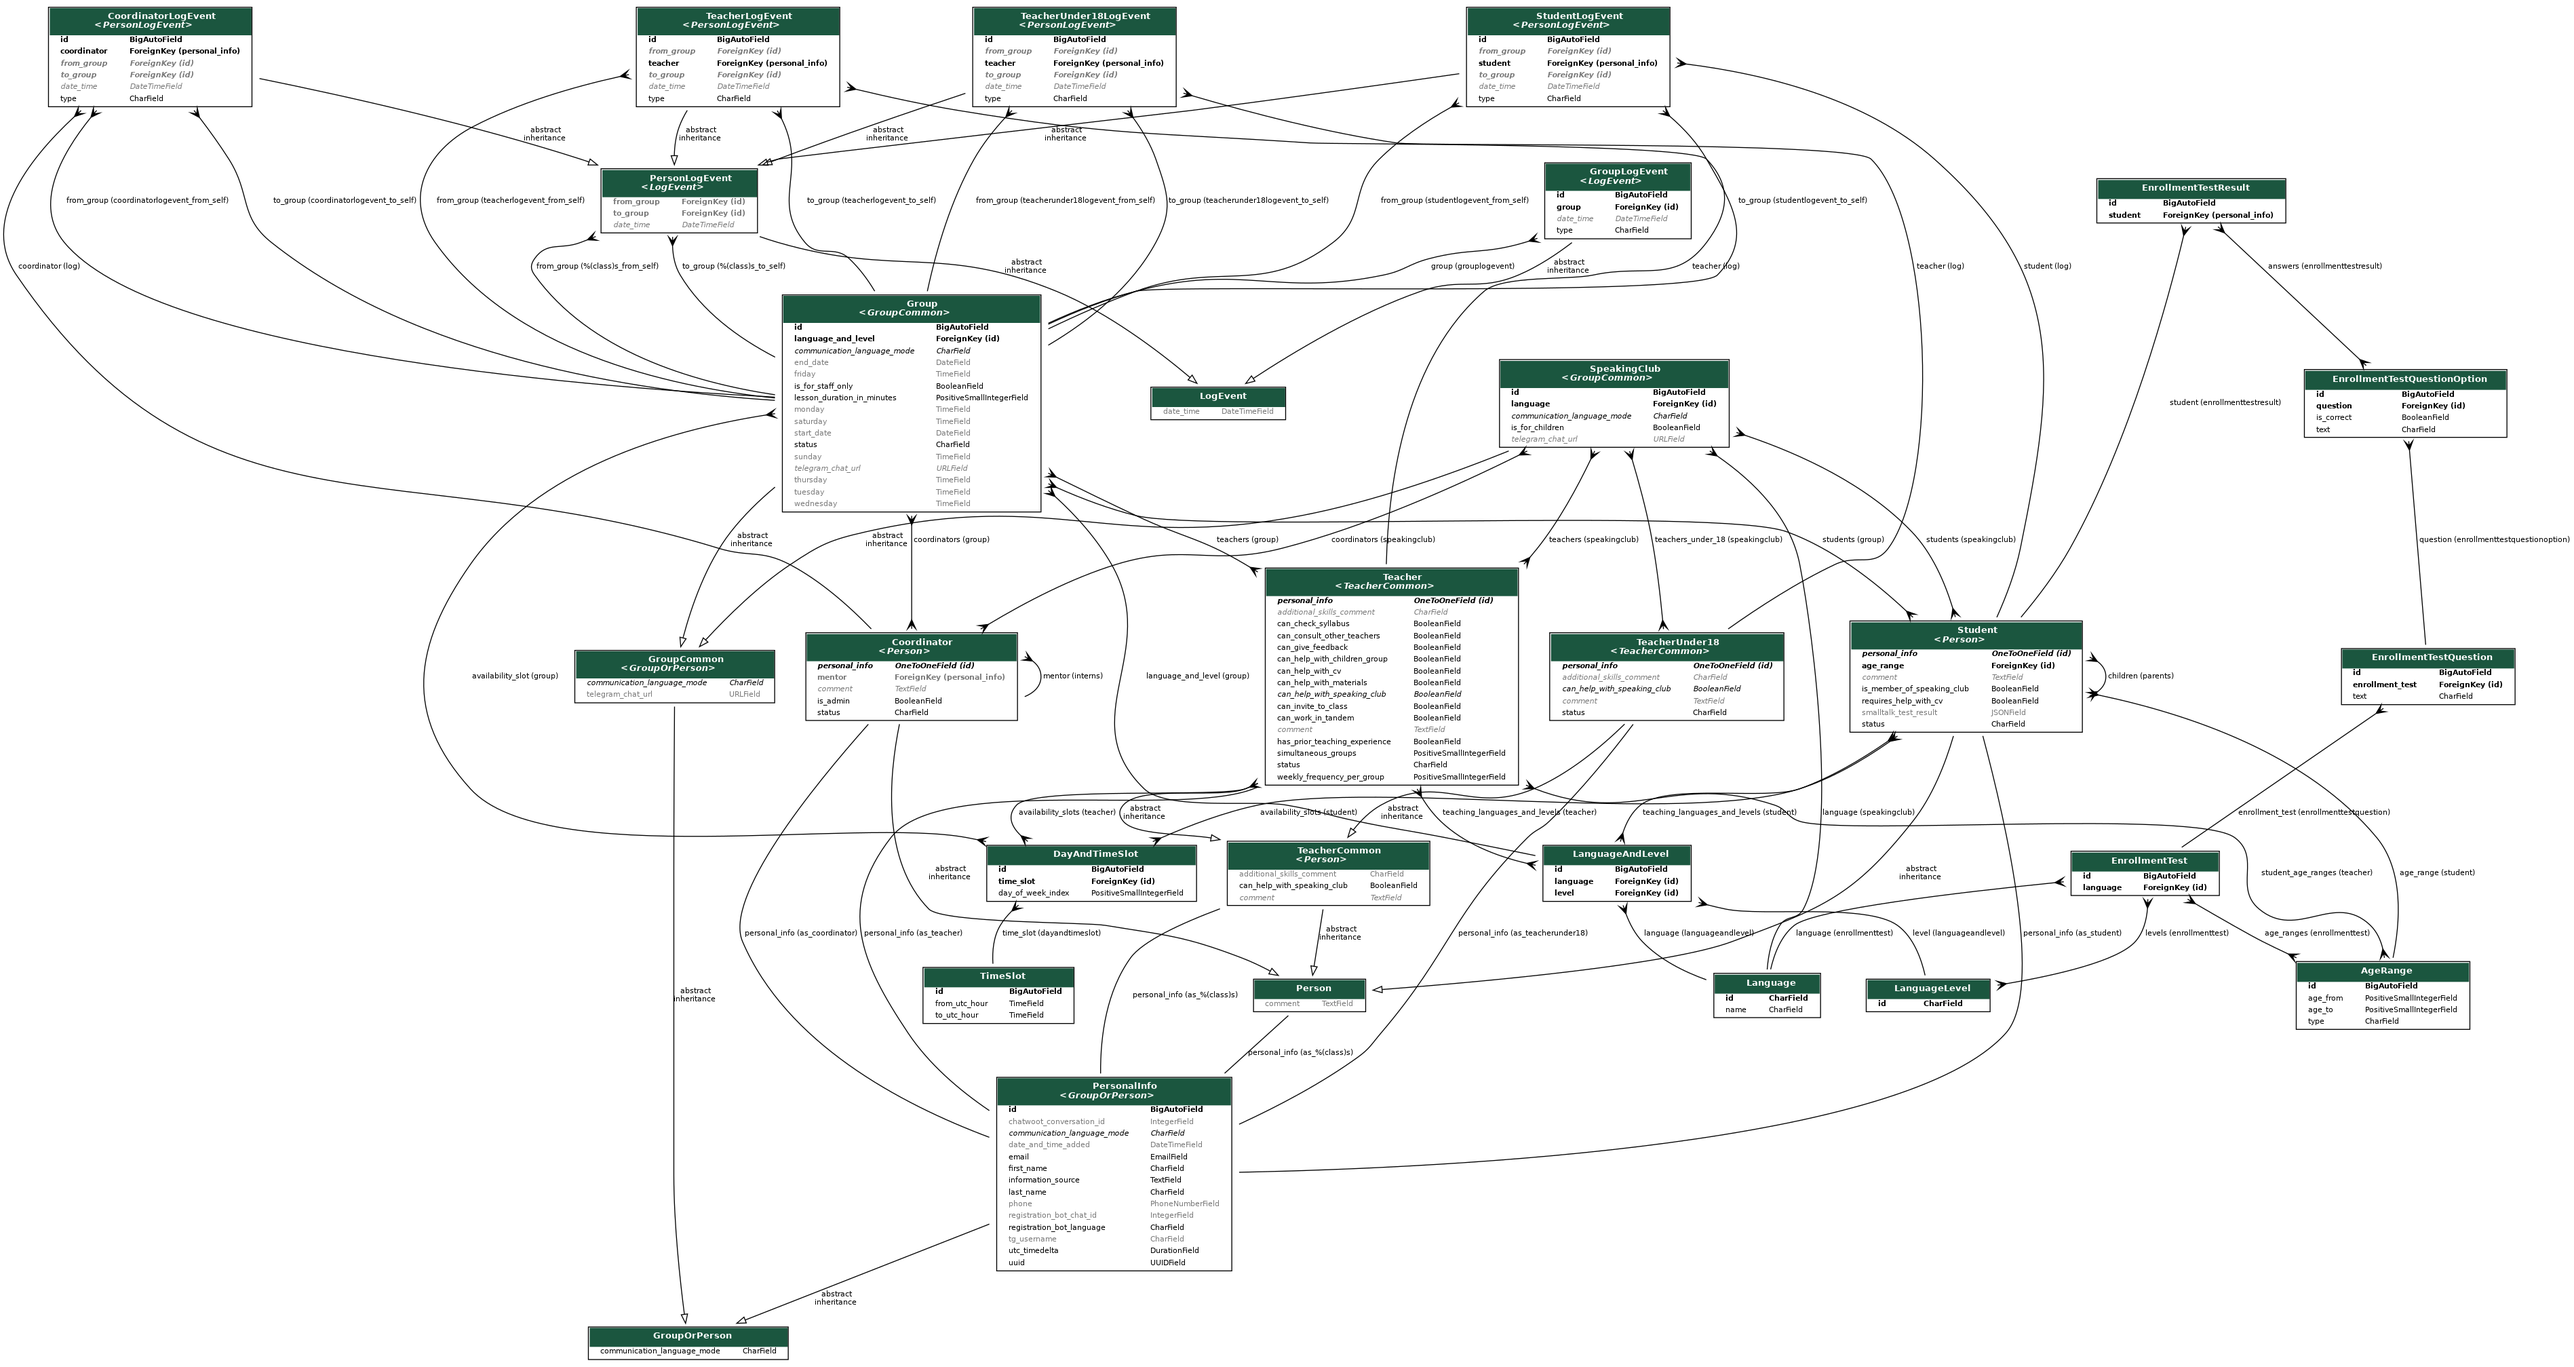
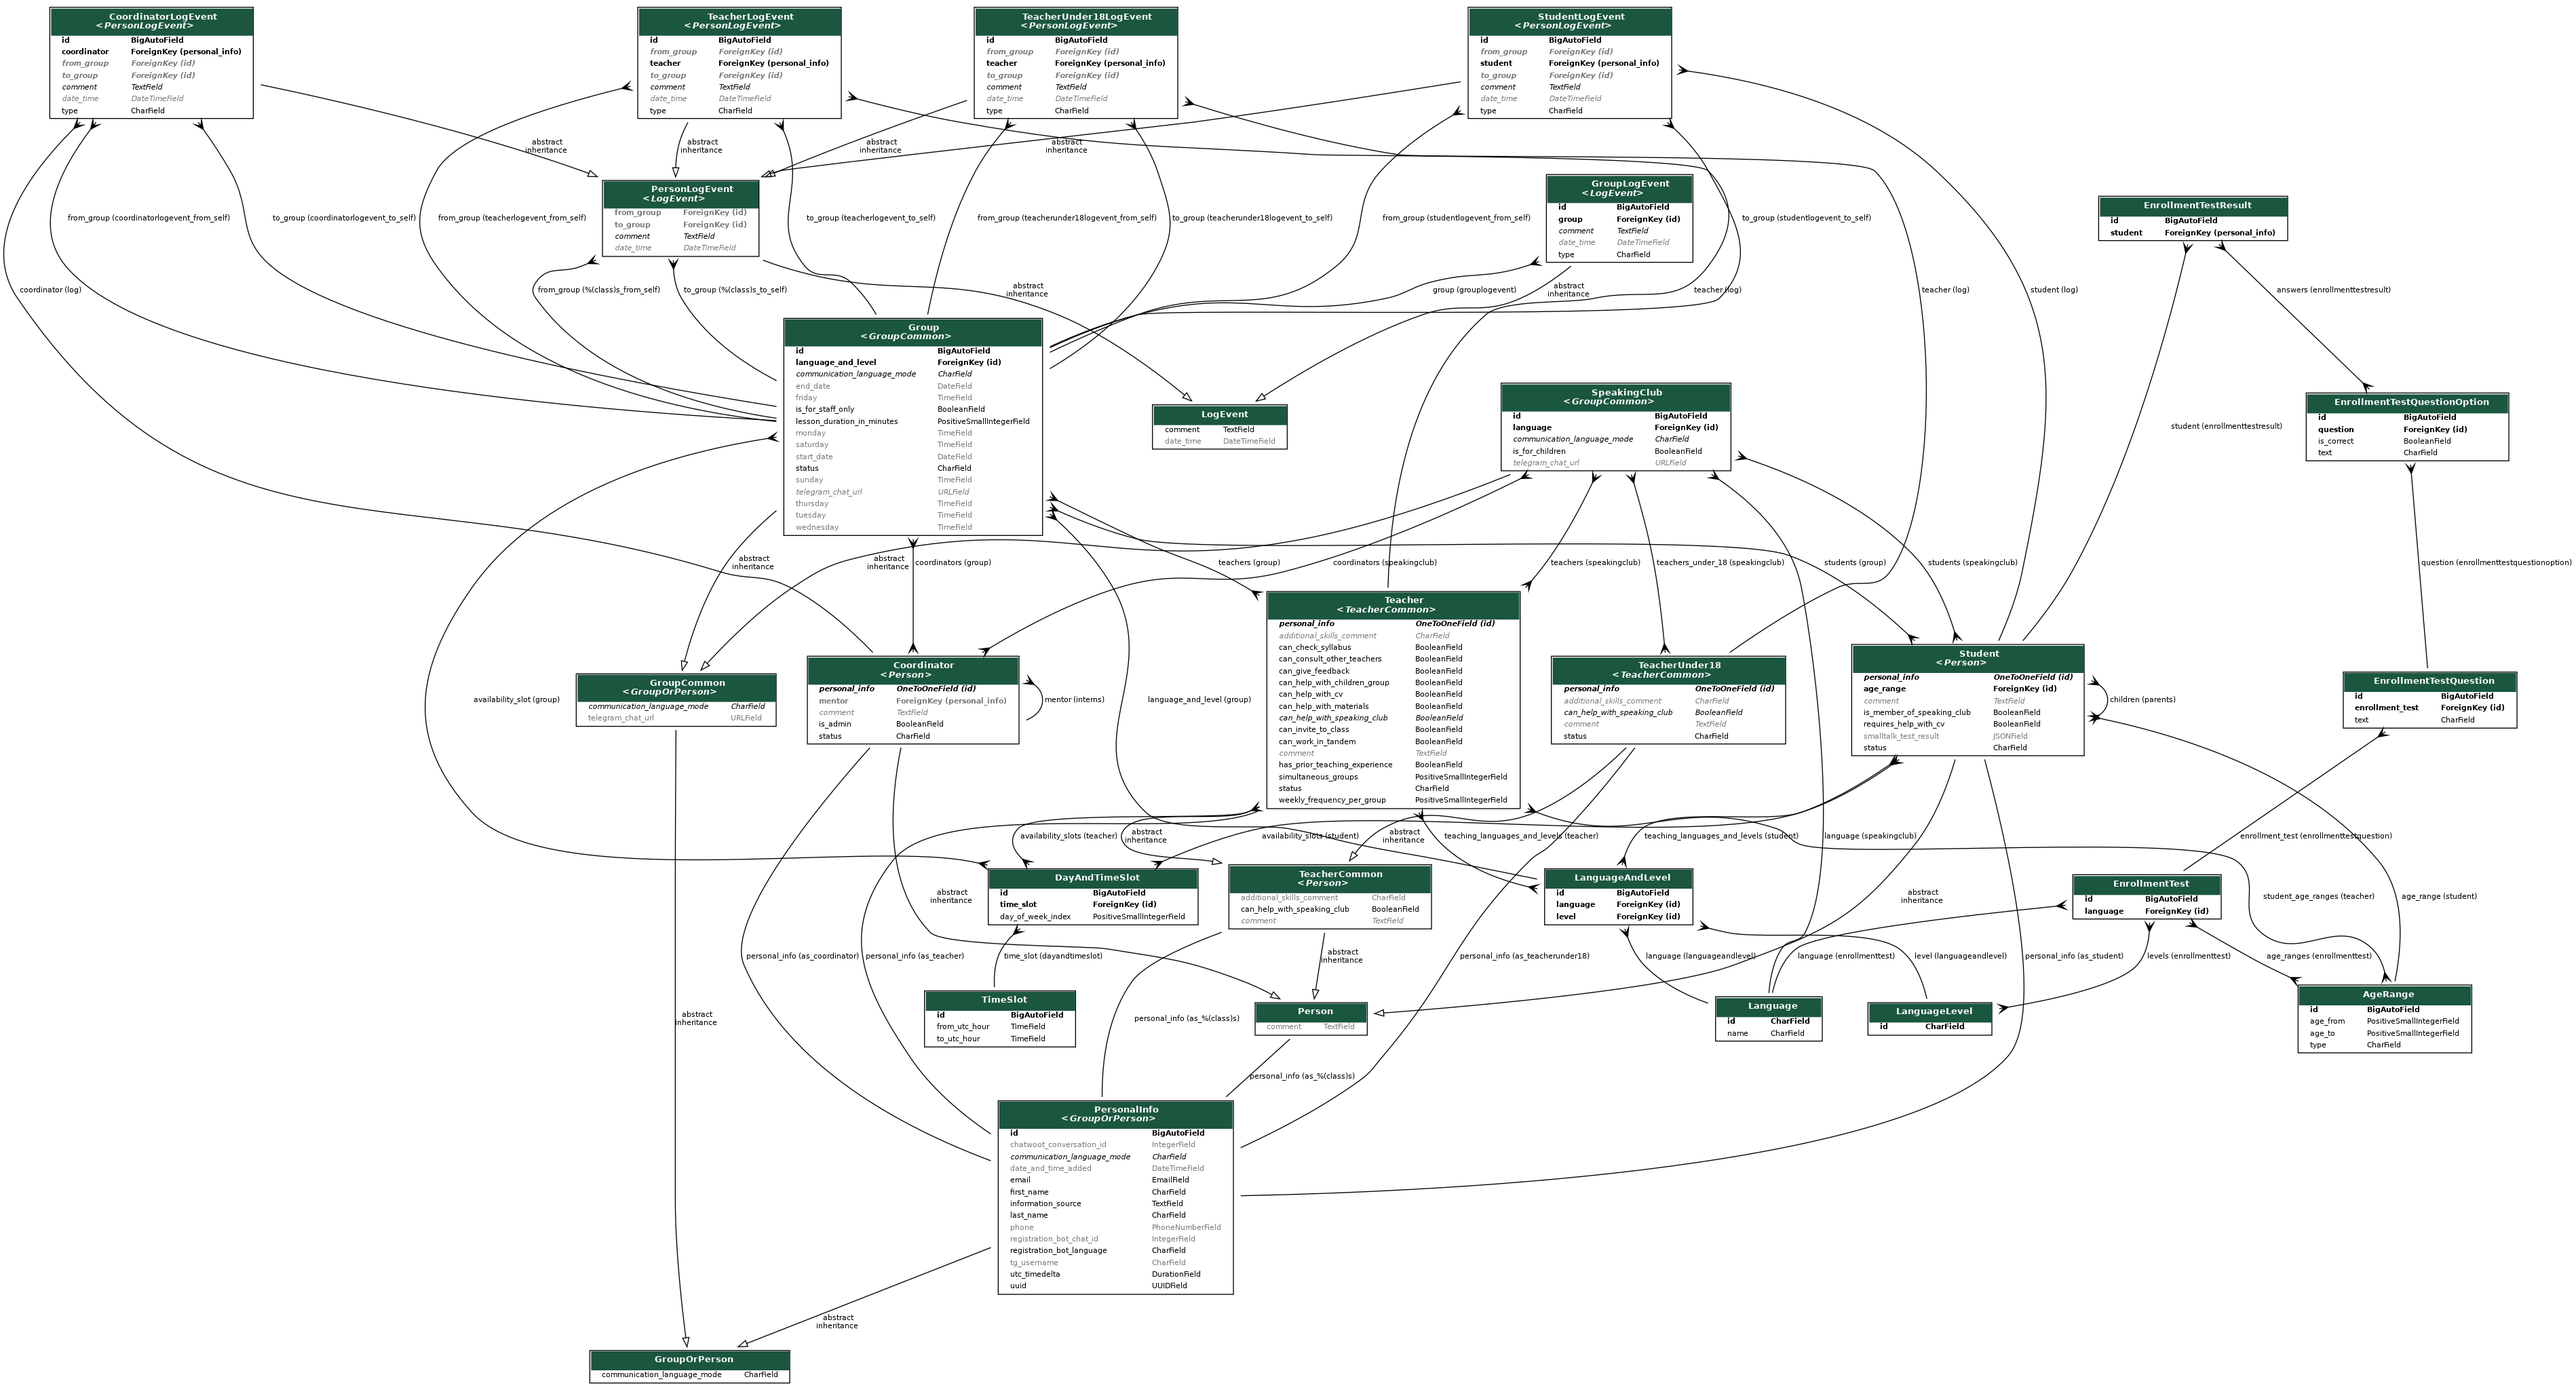
add field `comment` to `LogEvent` models

diff --git a/api/migrations/0001_initial.py b/api/migrations/0001_initial.py
@@ -1,4 +1,4 @@
-# Generated by Django 4.1.7 on 2023-03-22 12:10
+# Generated by Django 4.1.7 on 2023-03-23 10:50
 
 import datetime
 from django.db import migrations, models
@@ -50,6 +50,7 @@ class Migration(migrations.Migration):
                         auto_created=True, primary_key=True, serialize=False, verbose_name="ID"
                     ),
                 ),
+                ("comment", models.TextField()),
                 ("date_time", models.DateTimeField(auto_now_add=True)),
                 (
                     "type",
@@ -230,6 +231,7 @@ class Migration(migrations.Migration):
                         auto_created=True, primary_key=True, serialize=False, verbose_name="ID"
                     ),
                 ),
+                ("comment", models.TextField()),
                 ("date_time", models.DateTimeField(auto_now_add=True)),
                 (
                     "type",
@@ -396,6 +398,7 @@ class Migration(migrations.Migration):
                         auto_created=True, primary_key=True, serialize=False, verbose_name="ID"
                     ),
                 ),
+                ("comment", models.TextField()),
                 ("date_time", models.DateTimeField(auto_now_add=True)),
                 (
                     "type",
@@ -406,7 +409,7 @@ class Migration(migrations.Migration):
                             ("group_offered", "Was offered a group, has not responded yet"),
                             ("accepted_offer", "Was offered a group and accepted it"),
                             ("declined_offer", "Was offered a group but declined it"),
-                            ("awaiting_start", "Group confirmed, awaiting start of classes"),
+                            ("group_confirmed", "Group confirmed, awaiting start of classes"),
                             ("start", "Started studying in a group"),
                             (
                                 "missed_class_notified",
@@ -440,6 +443,7 @@ class Migration(migrations.Migration):
                         auto_created=True, primary_key=True, serialize=False, verbose_name="ID"
                     ),
                 ),
+                ("comment", models.TextField()),
                 ("date_time", models.DateTimeField(auto_now_add=True)),
                 (
                     "type",
@@ -454,7 +458,7 @@ class Migration(migrations.Migration):
                             ("group_offered", "Was offered a group, has not responded yet"),
                             ("accepted_offer", "Was offered a group and accepted it"),
                             ("declined_offer", "Was offered a group but declined it"),
-                            ("awaiting_start", "Group confirmed, awaiting start of classes"),
+                            ("group_confirmed", "Group confirmed, awaiting start of classes"),
                             ("start", "Started teaching a group"),
                             ("requested_transfer", "Requested transfer"),
                             ("transferred", "Transferred"),
@@ -480,6 +484,7 @@ class Migration(migrations.Migration):
                         auto_created=True, primary_key=True, serialize=False, verbose_name="ID"
                     ),
                 ),
+                ("comment", models.TextField()),
                 ("date_time", models.DateTimeField(auto_now_add=True)),
                 (
                     "type",

diff --git a/api/models/log_events.py b/api/models/log_events.py
@@ -18,6 +18,7 @@ class LogEvent(models.Model):
     organized by the school.
     """
 
+    comment = models.TextField()
     date_time = models.DateTimeField(auto_now_add=True)
 
     @property
